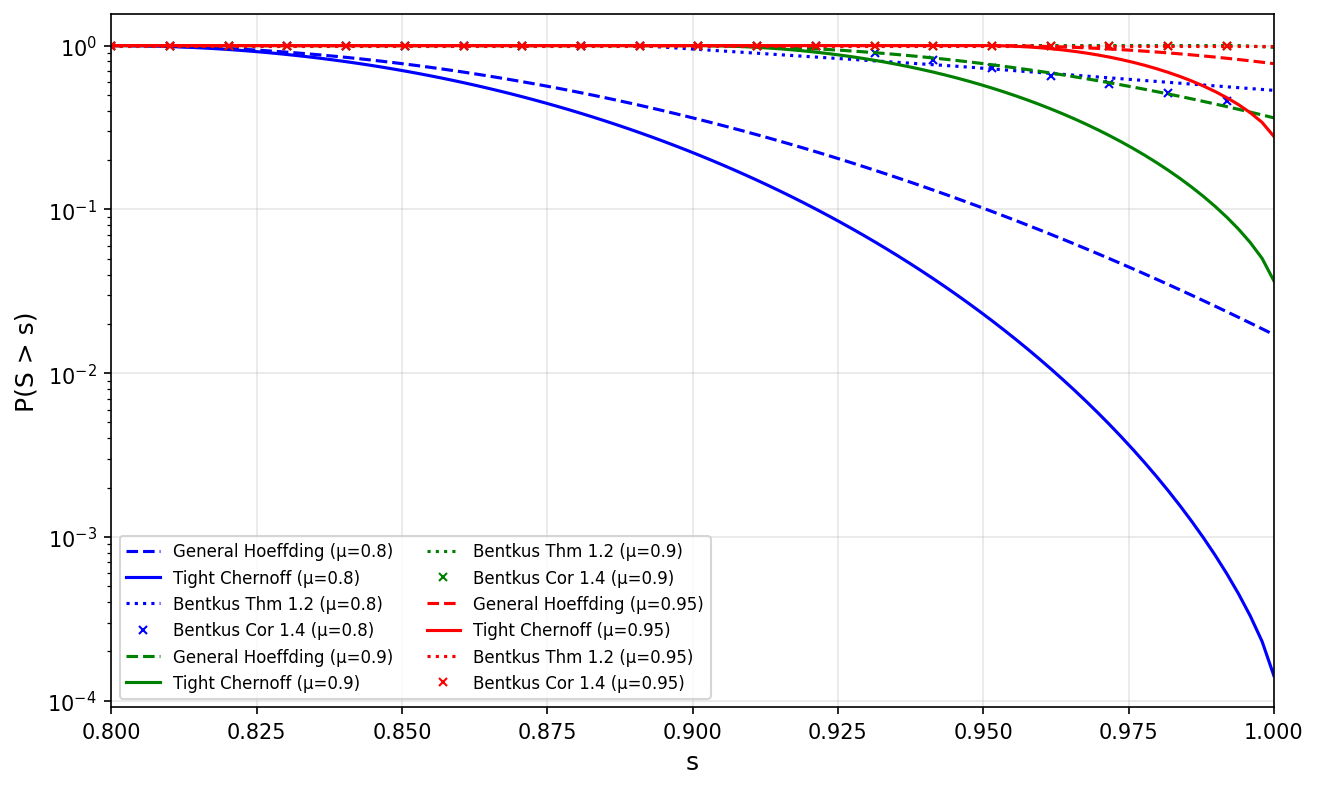
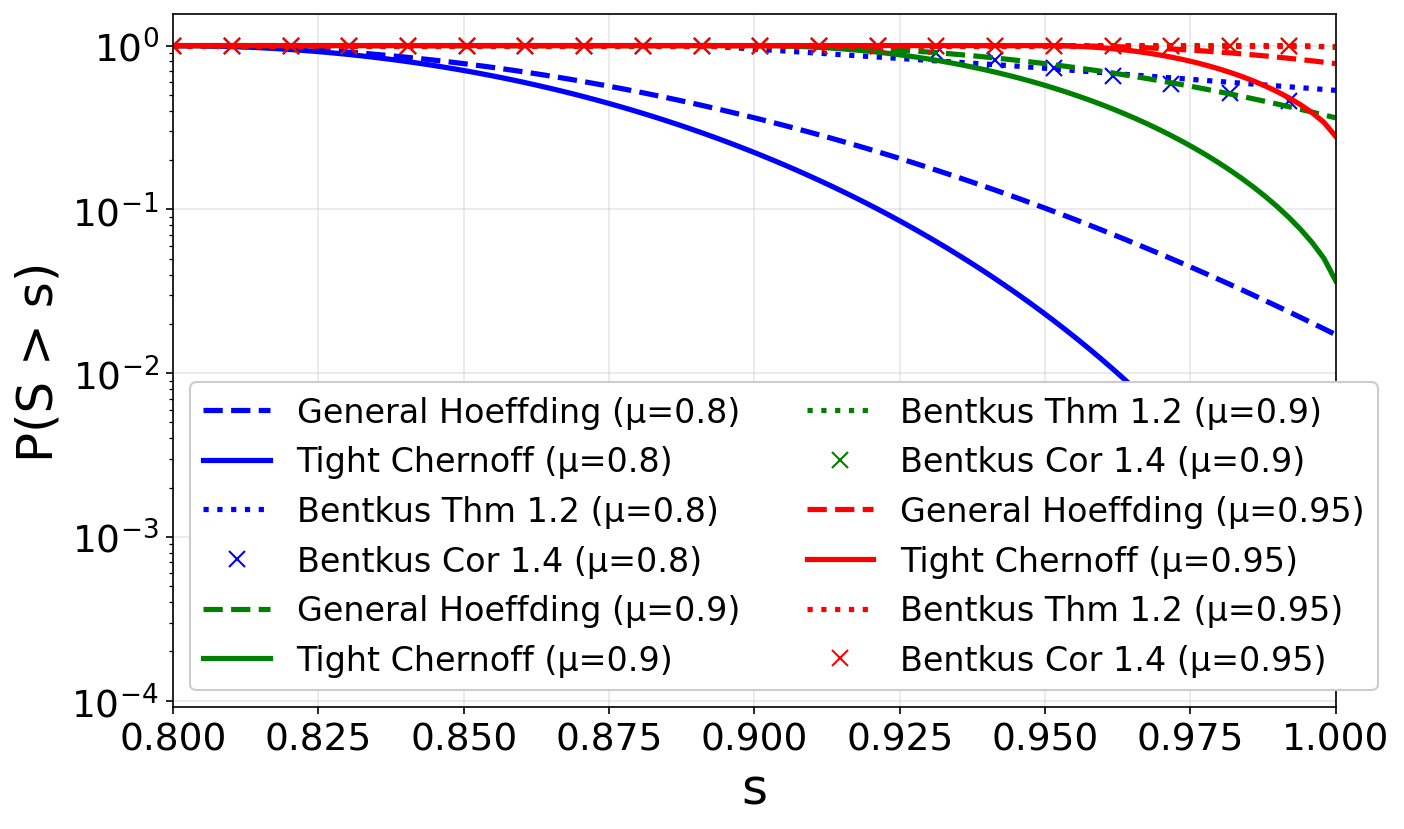
Merge figures 1 and 2 side-by-side with improved legibility (#15)
* Initial plan

* Merge Figure 1 and Figure 2 into single side-by-side figure with (Left)/(Right) captions

* Fix figure legibility by increasing font sizes and line widths

* Set legend framealpha=1 to reduce visual clutter

---------

diff --git a/assets/style.css b/assets/style.css
@@ -141,6 +141,19 @@ figure img {
     height: auto;
 }
 
+/* Side-by-side figures in a single figure container */
+figure .center {
+    display: flex;
+    justify-content: center;
+    gap: 1rem;
+    flex-wrap: wrap;
+}
+
+figure .center img {
+    max-width: 48%;
+    flex: 1 1 45%;
+}
+
 figcaption {
     font-size: 0.9rem;
     color: #666;

diff --git a/manuscript/main.tex b/manuscript/main.tex
@@ -182,10 +182,19 @@ This theorem suggests two methods for computing $\varphi^*$.  One method involve
 
 \begin{figure}
 \begin{center}
-\includegraphics[width=5in]{comparisons/dirichlet_100.png}
+\begin{minipage}{0.48\textwidth}
+\centering
+\includegraphics[width=\textwidth]{comparisons/dirichlet_100.png}
+\end{minipage}
+\hfill
+\begin{minipage}{0.48\textwidth}
+\centering
+\includegraphics[width=\textwidth]{comparisons/homogen_100.png}
+\end{minipage}
   \caption{
-  Comparison of bounds for heterogeneous intervals.  We consider three choices of fixed expected value, $\mu \in \{0.8, 0.9, 0.95\}$.  We compare the general Hoeffding inequality \citep[Theorem 2]{hoeffding_probability_1963} (dashed lines), our new Tight Chernoff bounds (solid lines, calculated using Theorem~\ref{thm:lowd}), Bentkus Theorem 1.2 \citep{bentkus2004hoeffding} (dotted lines), and Bentkus Corollary 1.4 (×~markers).  Since Bentkus Theorem 1.2 requires homogeneous intervals (cf.\ the CW setting from Section~\ref{sec:related}), we apply it by rescaling all variables to lie within $[0, \max_i b_i]$.  Bentkus Corollary 1.4 (cf.\ the BMD setting from Section~\ref{sec:related}) provides per-variable scaling but requires centering information; in the heterogeneous case, this assumption is necessarily loose because it does not fully exploit the per-variable upper bounds.  Our tight Chernoff bound substantially outperforms both the general Hoeffding inequality and the Bentkus bounds in the heterogeneous case.
-  }\label{fig:tailboundcomparisons}
+  (Left) Comparison of bounds for heterogeneous intervals.  We consider three choices of fixed expected value, $\mu \in \{0.8, 0.9, 0.95\}$.  We compare the general Hoeffding inequality \citep[Theorem 2]{hoeffding_probability_1963} (dashed lines), our new Tight Chernoff bounds (solid lines, calculated using Theorem~\ref{thm:lowd}), Bentkus Theorem 1.2 \citep{bentkus2004hoeffding} (dotted lines), and Bentkus Corollary 1.4 (×~markers).  Since Bentkus Theorem 1.2 requires homogeneous intervals (cf.\ the CW setting from Section~\ref{sec:related}), we apply it by rescaling all variables to lie within $[0, \max_i b_i]$.  Bentkus Corollary 1.4 (cf.\ the BMD setting from Section~\ref{sec:related}) provides per-variable scaling but requires centering information; in the heterogeneous case, this assumption is necessarily loose because it does not fully exploit the per-variable upper bounds.  Our tight Chernoff bound substantially outperforms both the general Hoeffding inequality and the Bentkus bounds in the heterogeneous case.
+  (Right) Comparison of bounds for homogeneous intervals.  When all variables share the same bounding interval $[0,1]$, the specialized Hoeffding inequality (Equation~\ref{eq:hoeffspecial}) applies.  We compare the general Hoeffding inequality, the specialized Hoeffding inequality, our new tight Chernoff bounds, and Bentkus Theorem 1.2.  Our tight Chernoff bounds match the specialized Hoeffding inequality, as expected from Theorem~\ref{thm:lowd}.  In this homogeneous setting, the specialized Hoeffding inequality, the Bentkus Theorem 1.2 bound, and our tight Chernoff bounds all provide much tighter bounds than the general Hoeffding inequality.
+  }\label{fig:boundcomparisons}
 \end{center}
 \end{figure}
 
@@ -193,18 +202,7 @@ We use simulations to assess the degree of improvement over the general Hoeffdin
 
 For any fixed value of $\mu$ and any value $s \geq \mu$, our new results provide an upper bound on $\mathbb{P}(S>s)$, assuming $\mathbb{E}[S]\leq \mu$.  The general Hoeffding inequality can also be used to produce a bound on $\mathbb{P}(S>s)$, offering a natural point of comparison.  We also compare with the two Bentkus bounds \citep{bentkus2004hoeffding}: Theorem 1.2 is applicable in the CW setting and requires all bounding intervals to be of the same size, while Corollary 1.4 is applicable in the BMD setting and provides per-variable scaling but requires centering information.  To apply Theorem 1.2 to heterogeneous intervals, we rescale all variables so that they lie within $[0, \max_i b_i]$.  For Corollary 1.4, we apply it using only the overall centering $S - \mu$.  These bounds on $\mathbb{P}(S>s)$ have practical implications, such as facilitating hypothesis testing for $\mathbb{E}[S]\leq \mu$ given an observed realization of $S$.
 
-Figure~\ref{fig:tailboundcomparisons} compares our new tight Chernoff bounds with the general Hoeffding inequality and both Bentkus bounds for $\mu \in \{0.8, 0.9, 0.95\}$, showing how they vary as a function of $s$. In many cases, our bounds are orders of magnitude tighter than those derived from the general Hoeffding inequality, demonstrating their advantage in tail estimation.  Neither Bentkus bound performs as well as our method in the heterogeneous case: Theorem 1.2 effectively treats all intervals as having the maximum width (a consequence of applying a CW bound), while Corollary 1.4 has a larger multiplicative constant and, as a BMD-type bound, does not fully exploit the heterogeneity.
-
-\begin{figure}
-\begin{center}
-\includegraphics[width=5in]{comparisons/homogen_100.png}
-  \caption{
-  Comparison of bounds for homogeneous intervals.  When all variables share the same bounding interval $[0,1]$, the specialized Hoeffding inequality (Equation~\ref{eq:hoeffspecial}) applies.  We compare the general Hoeffding inequality, the specialized Hoeffding inequality, our new tight Chernoff bounds, and Bentkus Theorem 1.2.  Our tight Chernoff bounds match the specialized Hoeffding inequality, as expected from Theorem~\ref{thm:lowd}.  In this homogeneous setting, the specialized Hoeffding inequality, the Bentkus Theorem 1.2 bound, and our tight Chernoff bounds all provide much tighter bounds than the general Hoeffding inequality.
-  }\label{fig:homogencomparisons}
-\end{center}
-\end{figure}
-
-To verify that our bounds perform well even when the Bentkus bounds are directly applicable, we also consider the case of homogeneous intervals where all $b_i = 1$, which corresponds to the CW setting.  Figure~\ref{fig:homogencomparisons} shows this comparison.  In this setting, our new tight Chernoff bounds coincide with the specialized Hoeffding inequality (Equation~\ref{eq:hoeffspecial}), as guaranteed by Theorem~\ref{thm:lowd}.  Both our bounds and Bentkus Theorem 1.2 are much tighter than the general Hoeffding inequality, demonstrating that all refined methods provide substantial improvements when applicable.  The key advantage of our tight Chernoff approach is that it extends naturally to heterogeneous intervals without requiring any rescaling or centering information beyond the overall mean.
+Figure~\ref{fig:boundcomparisons} compares our new tight Chernoff bounds with the general Hoeffding inequality and both Bentkus bounds for $\mu \in \{0.8, 0.9, 0.95\}$, showing how they vary as a function of $s$. In many cases, our bounds are orders of magnitude tighter than those derived from the general Hoeffding inequality, demonstrating their advantage in tail estimation.  Neither Bentkus bound performs as well as our method in the heterogeneous case: Theorem 1.2 effectively treats all intervals as having the maximum width (a consequence of applying a CW bound), while Corollary 1.4 has a larger multiplicative constant and, as a BMD-type bound, does not fully exploit the heterogeneity.  To verify that our bounds perform well even when the Bentkus bounds are directly applicable, we also consider the case of homogeneous intervals where all $b_i = 1$, which corresponds to the CW setting.  In this setting, our new tight Chernoff bounds coincide with the specialized Hoeffding inequality (Equation~\ref{eq:hoeffspecial}), as guaranteed by Theorem~\ref{thm:lowd}.  Both our bounds and Bentkus Theorem 1.2 are much tighter than the general Hoeffding inequality, demonstrating that all refined methods provide substantial improvements when applicable.  The key advantage of our tight Chernoff approach is that it extends naturally to heterogeneous intervals without requiring any rescaling or centering information beyond the overall mean.
 
 
 \bigskip

diff --git a/comparisons/homogen_compare.py b/comparisons/homogen_compare.py
@@ -110,27 +110,28 @@ def main(n=100):
         
         # Plot Hoeffding Theorem 1 (KL) bound - "Specialized Hoeffding" (dashed line)
         ax.plot(s_values / n, hoeffding1, '--', color=color, 
-                label=f'Specialized Hoeffding (μ={frac})', linewidth=1.5)
+                label=f'Specialized Hoeffding (μ={frac})', linewidth=2.5)
         
         # Plot Hoeffding Theorem 2 (sum of squares) bound - "General Hoeffding" (dash-dot line)
         ax.plot(s_values / n, hoeffding2, '-.', color=color, 
-                label=f'General Hoeffding (μ={frac})', linewidth=1.5)
+                label=f'General Hoeffding (μ={frac})', linewidth=2.5)
         
         # Plot Tight Chernoff bound (solid line)
         ax.plot(s_values / n, tight_chernoff, '-', color=color,
-                label=f'Tight Chernoff (μ={frac})', linewidth=1.5)
+                label=f'Tight Chernoff (μ={frac})', linewidth=2.5)
         
         # Plot Bentkus Thm 1.2 bound (dotted line)
         ax.plot(s_values / n, bentkus_thm12, ':', color=color,
-                label=f'Bentkus Thm 1.2 (μ={frac})', linewidth=1.5)
+                label=f'Bentkus Thm 1.2 (μ={frac})', linewidth=2.5)
         
         # Sanity check: Tight Chernoff should match Hoeffding KL
         max_diff = np.max(np.abs(hoeffding1 - tight_chernoff))
         print(f"  Max |Hoeffding KL - Tight Chernoff| = {max_diff:.2e}")
     
-    ax.set_xlabel('s/n (normalized threshold)', fontsize=12)
-    ax.set_ylabel('P(S > s)', fontsize=12)
-    ax.legend(loc='lower left', fontsize=8, ncol=2)
+    ax.set_xlabel('s/n (normalized threshold)', fontsize=24)
+    ax.set_ylabel('P(S > s)', fontsize=24)
+    ax.tick_params(axis='both', labelsize=18)
+    ax.legend(loc='lower left', fontsize=16, ncol=2, framealpha=1)
     ax.set_yscale('log')
     ax.grid(True, alpha=0.3)
     ax.set_xlim(0.8, 1.0)

diff --git a/comparisons/dirichlet_compare.py b/comparisons/dirichlet_compare.py
@@ -134,23 +134,24 @@ def main(n=100, seed=42):
         
         # Plot Hoeffding bound (dashed line) - "General Hoeffding"
         ax.plot(s_values, hoeffding_bounds, '--', color=color, 
-                label=f'General Hoeffding (μ={mu})', linewidth=1.5)
+                label=f'General Hoeffding (μ={mu})', linewidth=2.5)
         
         # Plot Tight Chernoff bound (solid line)
         ax.plot(s_values, tight_chernoff_bounds, '-', color=color,
-                label=f'Tight Chernoff (μ={mu})', linewidth=1.5)
+                label=f'Tight Chernoff (μ={mu})', linewidth=2.5)
         
         # Plot Bentkus Thm 1.2 bound (dotted line)
         ax.plot(s_values, bentkus_thm12_bounds, ':', color=color,
-                label=f'Bentkus Thm 1.2 (μ={mu})', linewidth=1.5)
+                label=f'Bentkus Thm 1.2 (μ={mu})', linewidth=2.5)
         
         # Plot Bentkus Cor 1.4 bound (markers)
         ax.plot(s_values, bentkus_cor14_bounds, 'x', color=color,
-                label=f'Bentkus Cor 1.4 (μ={mu})', markersize=4, markevery=5)
+                label=f'Bentkus Cor 1.4 (μ={mu})', markersize=8, markevery=5)
     
-    ax.set_xlabel('s', fontsize=12)
-    ax.set_ylabel('P(S > s)', fontsize=12)
-    ax.legend(loc='lower left', fontsize=8, ncol=2)
+    ax.set_xlabel('s', fontsize=24)
+    ax.set_ylabel('P(S > s)', fontsize=24)
+    ax.tick_params(axis='both', labelsize=18)
+    ax.legend(loc='lower left', fontsize=16, ncol=2, framealpha=1)
     ax.set_yscale('log')
     ax.grid(True, alpha=0.3)
     ax.set_xlim(0.8, 1.0)
